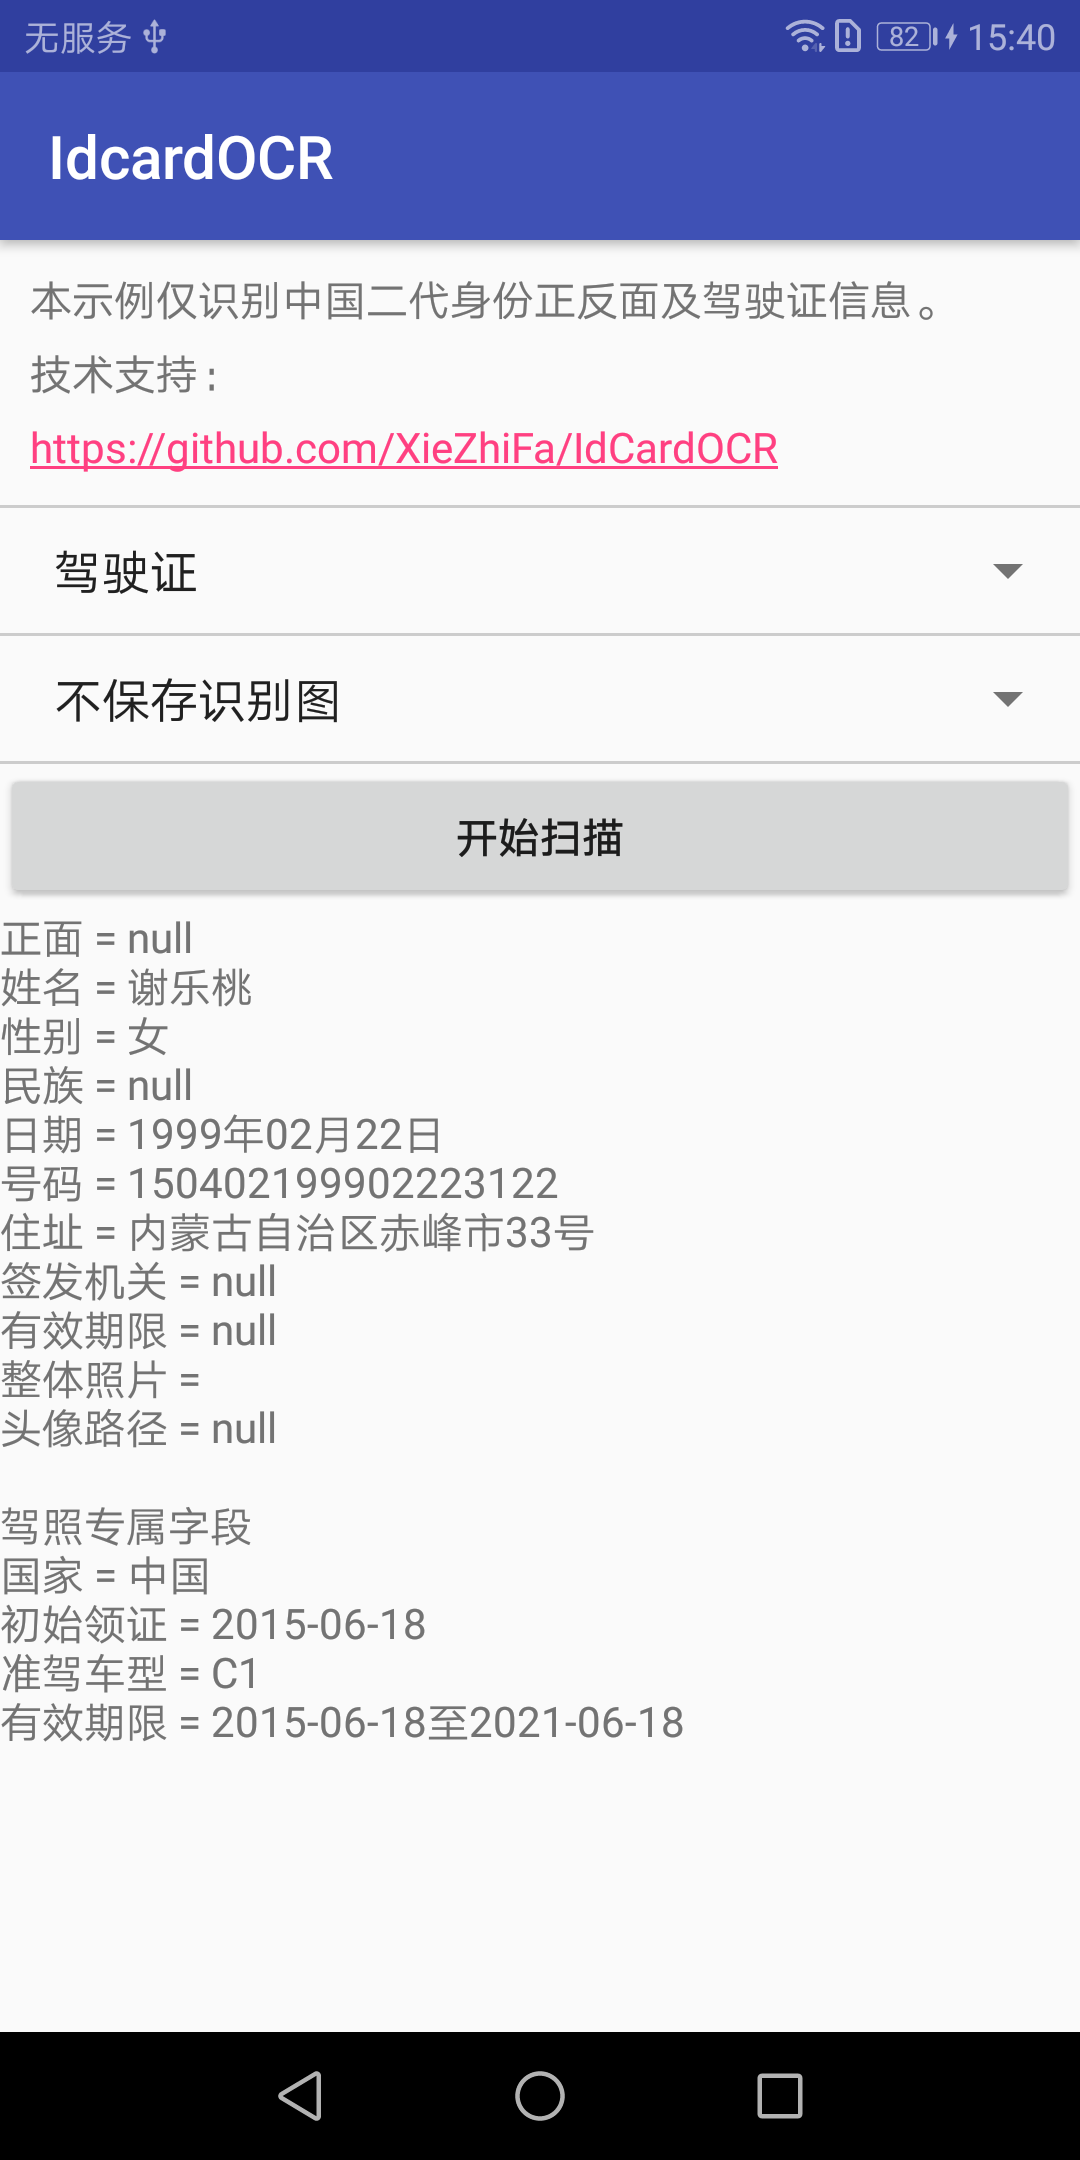
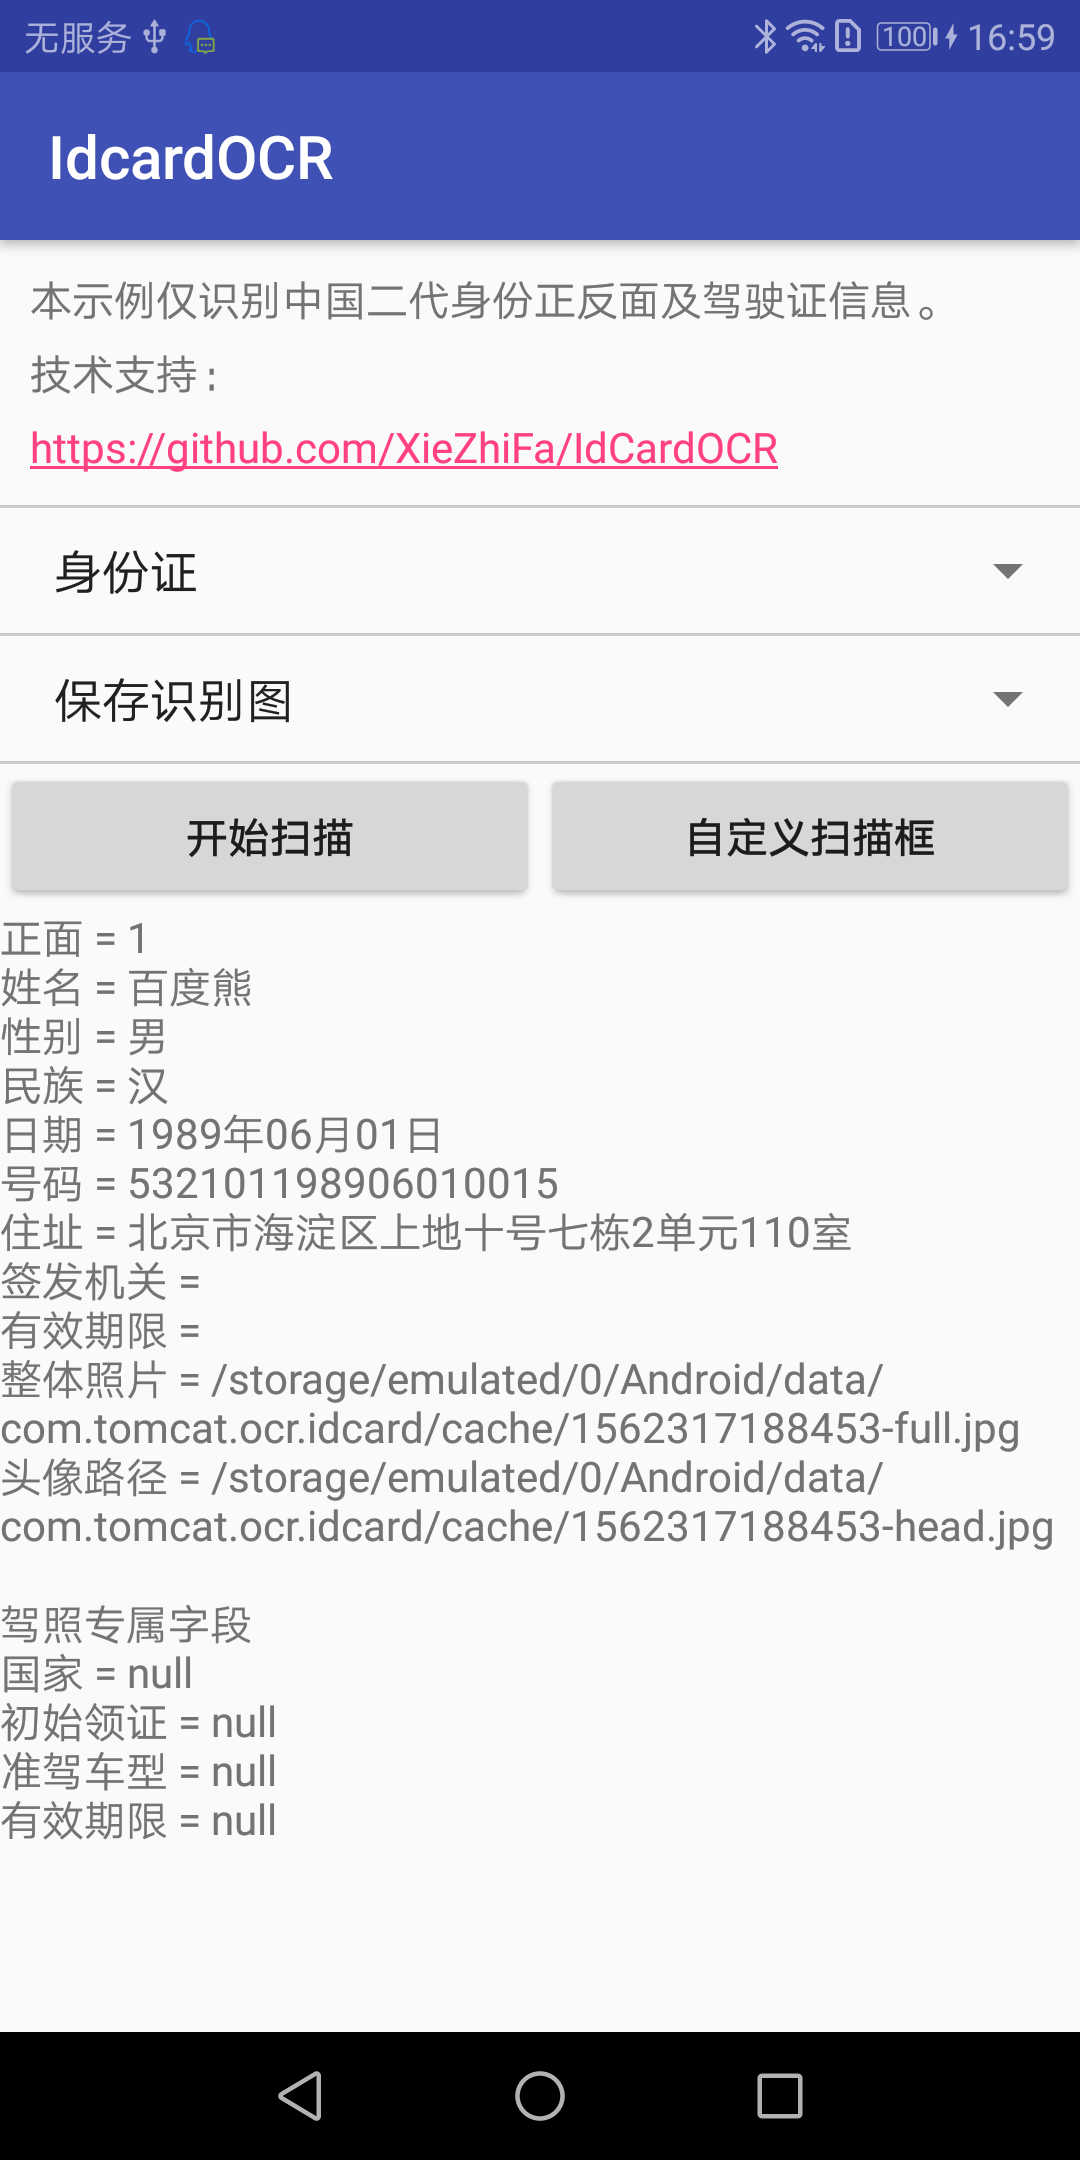
优化自定义扫描框

diff --git a/README.md b/README.md
@@ -203,12 +203,18 @@
     2. 选择图片界面增加相机拍照.
     3. 暂时不支持用户自定义扫描框识别驾驶证.
     
+    
+    1.0.4 
+    1. 增加自定义扫描框调用示例.
+    2. 自定义扫描Handler 不回调等优化.
+    
 
 
 
 #### 技术支持 QQ:2227421573
-    本开发库没有任何使用和调用限制，如果您不想授权，您可以直接使用 debug.keystore
-    对您的应用进行打包，如果您运行了Demo 体验及解码效果及还满意，请将applicationId及正式包sha1发给我，我给你License。
+    本开发库没有任何使用和调用限制，如果您不想正式授权，您可以直接使用 debug.keystore
+    对您的应用进行打包，正式授权只收一点费用做为本项目的维护经费
+    如果您运行了Demo 体验及解码效果及还满意，请将applicationId及正式包sha1发给我，我给你License。
     
     sha1 查看方式: 
     命令行进入签名文件所在的目录执行:
